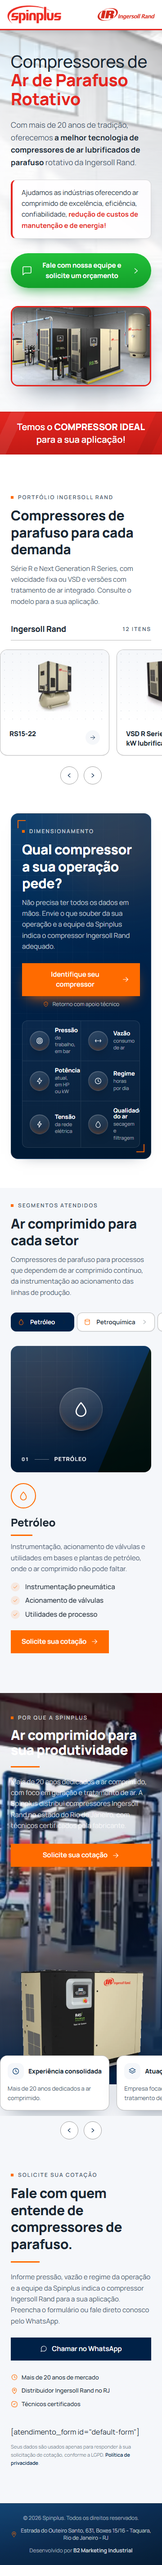
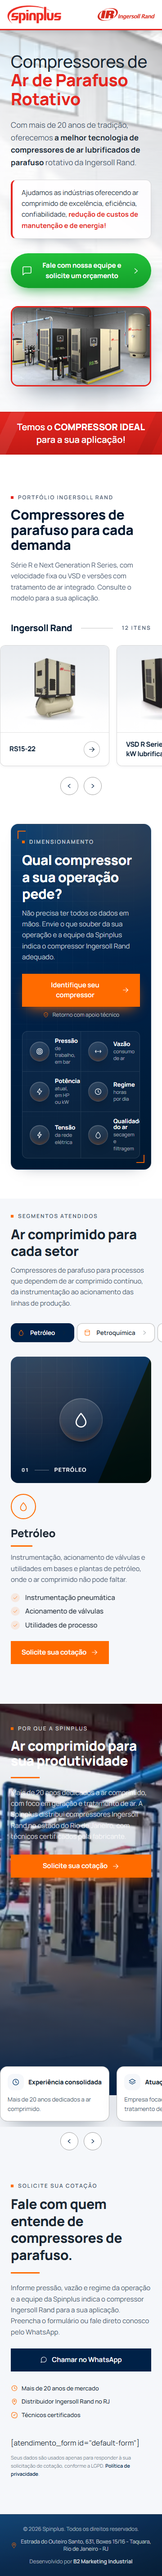
feat: vitrine no layout aprovado pela Spinplus
Foto em close da Ingersoll Rand no canto, título em duas linhas, detalhes em vermelho, linha no cabeçalho da prateleira e cards com palco de estúdio e produtos maiores.

Changed region(s): [[0.0, 0.2492, 1.0, 0.9655], [0.0611, 0.0311, 0.8861, 0.2803], [0.8861, 0.4983, 0.9167, 0.5295]]

diff --git a/src/data/sections/vitrine.ts b/src/data/sections/vitrine.ts
@@ -26,6 +26,7 @@ import produto09 from '@assets/vitrine/produto-09.jpg'
 import produto10 from '@assets/vitrine/produto-10.jpg'
 import produto11 from '@assets/vitrine/produto-11.jpg'
 import produto12 from '@assets/vitrine/produto-12.jpg'
+import destaque from '@assets/vitrine/destaque-ingersoll.jpg'
 
 /** Marca, linha ou família. `logo` é opcional: sem ela, vale o nome. */
 export interface ShowcaseGroup {
@@ -48,8 +49,11 @@ const alt = (model: string) => `Compressor de parafuso Ingersoll Rand ${model}`
 
 export const showcase = {
   eyebrow: 'Portfólio Ingersoll Rand',
-  title: 'Compressores de parafuso para cada demanda',
+  /** O `\n` marca a quebra de linha do título no layout aprovado pelo cliente. */
+  title: 'Compressores de parafuso\npara cada demanda',
   text: 'Série R e Next Generation R Series, com velocidade fixa ou VSD e versões com tratamento de ar integrado. Consulte o modelo para a sua aplicação.',
+  /** Foto decorativa no canto superior direito (desktop), do layout aprovado pelo cliente. */
+  feature: { src: destaque, alt: '' },
   groups: [{ id: 'ingersoll-rand', label: 'Ingersoll Rand', logo: null }],
   items: [
     {
@@ -144,6 +148,7 @@ export const showcase = {
   eyebrow: string
   title: string
   text: string
+  feature: Photo
   groups: readonly ShowcaseGroup[]
   items: readonly ShowcaseItem[]
 }

diff --git a/docs/BRIEFING.md b/docs/BRIEFING.md
@@ -142,24 +142,26 @@ Aprovada pelo usuário em 15/10/2026 com a opção "inferir e publicar": Apoio e
 | Fundo do hero   | `src/assets/hero-fundo.jpg` | confirmado | galpão claro com janelas enviado pelo usuário em 15/10/2026 (1870×841), sob véu branco à esquerda   |
 | Logos de marcas | —                           | removido   | entrada 7: só o nome                                                                                |
 
-| Asset            | Arquivo                                | Status     | Observação                                                                    |
-| ---------------- | -------------------------------------- | ---------- | ----------------------------------------------------------------------------- |
-| Fotos da vitrine | `src/assets/vitrine/produto-01…12.jpg` | confirmado | links do briefing; originais 300×300                                          |
-| Cenário          | `src/assets/diferenciais/cenario.jpg`  | provisório | sala de compressores do site do cliente                                       |
-| Pessoa recortada | `src/assets/diferenciais/pessoa.png`   | provisório | **sem foto da equipe**: compressor R45 recortado do site no lugar. Pedir foto |
+| Asset               | Arquivo                                     | Status     | Observação                                                                                                    |
+| ------------------- | ------------------------------------------- | ---------- | ------------------------------------------------------------------------------------------------------------- |
+| Fotos da vitrine    | `src/assets/vitrine/produto-01…12.jpg`      | confirmado | links do briefing; originais 300×300                                                                          |
+| Cenário             | `src/assets/diferenciais/cenario.jpg`       | provisório | sala de compressores do site do cliente                                                                       |
+| Pessoa recortada    | `src/assets/diferenciais/pessoa.png`        | provisório | **sem foto da equipe**: compressor R45 recortado do site no lugar. Pedir foto                                 |
+| Destaque da vitrine | `src/assets/vitrine/destaque-ingersoll.jpg` | provisório | recortado do modelo de layout enviado pelo usuário (716×300); trocar pelo arquivo original em alta, se houver |
 
 ## Desvios do padrão
 
 Aprovados pelo usuário em 15/10/2026, a partir do modelo de layout que enviou para o topo da página.
 
-| Peça        | O que muda em relação ao padrão B2                                                                                                                                                                | Consequência                                                                                       |
-| ----------- | ------------------------------------------------------------------------------------------------------------------------------------------------------------------------------------------------- | -------------------------------------------------------------------------------------------------- |
-| Header      | fundo branco com filete vermelho, logo sem placa pendurada, selo "Mais de 20 anos de tradição / Suporte especializado" e logo Ingersoll Rand; **sem botão de cotação**                            | some o CTA `header-cta`; o CTA do hero fica logo abaixo                                            |
-| Hero        | claro, duas colunas (texto + foto emoldurada), H1 "Compressores de Ar de Parafuso Rotativo", botão verde, faixa vermelha "Temos o COMPRESSOR IDEAL para a sua aplicação!"; **sem coluna de chat** | o shortcode do chat não aparece no hero; atendimento pelo botão `btn-slave-whats` (`hero-primary`) |
-| Copy        | CTA e textos do material antigo do cliente ("Fale com nossa equipe…", "a melhor tecnologia…")                                                                                                     | o briefing recomendava não reaproveitá-los; prevalece o pedido do cliente                          |
-| Cores       | vermelho da marca (`brand-red` #e52620) e verde do botão (`cta-green`) no header e no hero                                                                                                        | o restante da página segue com o laranja do padrão                                                 |
-| Verificação | `scripts/check-lp.mjs` (A8 e especificação de LOGO/heroBg) passa a conferir as assinaturas desta versão                                                                                           | o CI continua bloqueando alteração acidental de Header e Hero                                      |
-| Fonte       | Manrope servida pela própria página (`src/styles/fonts/`, pré-carregada no Layout) em vez do Google Fonts                                                                                         | sem troca de fonte após a primeira pintura: CLS 0 (antes 0,18 no Lighthouse do CI)                 |
+| Peça        | O que muda em relação ao padrão B2                                                                                                                                                                | Consequência                                                                                                                           |
+| ----------- | ------------------------------------------------------------------------------------------------------------------------------------------------------------------------------------------------- | -------------------------------------------------------------------------------------------------------------------------------------- |
+| Header      | fundo branco com filete vermelho, logo sem placa pendurada, selo "Mais de 20 anos de tradição / Suporte especializado" e logo Ingersoll Rand; **sem botão de cotação**                            | some o CTA `header-cta`; o CTA do hero fica logo abaixo                                                                                |
+| Hero        | claro, duas colunas (texto + foto emoldurada), H1 "Compressores de Ar de Parafuso Rotativo", botão verde, faixa vermelha "Temos o COMPRESSOR IDEAL para a sua aplicação!"; **sem coluna de chat** | o shortcode do chat não aparece no hero; atendimento pelo botão `btn-slave-whats` (`hero-primary`)                                     |
+| Copy        | CTA e textos do material antigo do cliente ("Fale com nossa equipe…", "a melhor tecnologia…")                                                                                                     | o briefing recomendava não reaproveitá-los; prevalece o pedido do cliente                                                              |
+| Cores       | vermelho da marca (`brand-red` #e52620) e verde do botão (`cta-green`) no header e no hero                                                                                                        | o restante da página segue com o laranja do padrão                                                                                     |
+| Verificação | `scripts/check-lp.mjs` (A8 e especificação de LOGO/heroBg) passa a conferir as assinaturas desta versão                                                                                           | o CI continua bloqueando alteração acidental de Header e Hero                                                                          |
+| Fonte       | Manrope servida pela própria página (`src/styles/fonts/`, pré-carregada no Layout) em vez do Google Fonts                                                                                         | sem troca de fonte após a primeira pintura: CLS 0 (antes 0,18 no Lighthouse do CI)                                                     |
+| Vitrine     | layout do cliente: foto em close no canto (desktop), título em duas linhas, marcador e detalhes em vermelho, linha no cabeçalho da prateleira, cards com palco de estúdio e produtos maiores      | `ProductShowcase.astro` editado na LP: **`npm run compose` o sobrescreve** com o da biblioteca — restaurar pelo git depois de recompor |
 
 ## Pendências para o cliente
 
